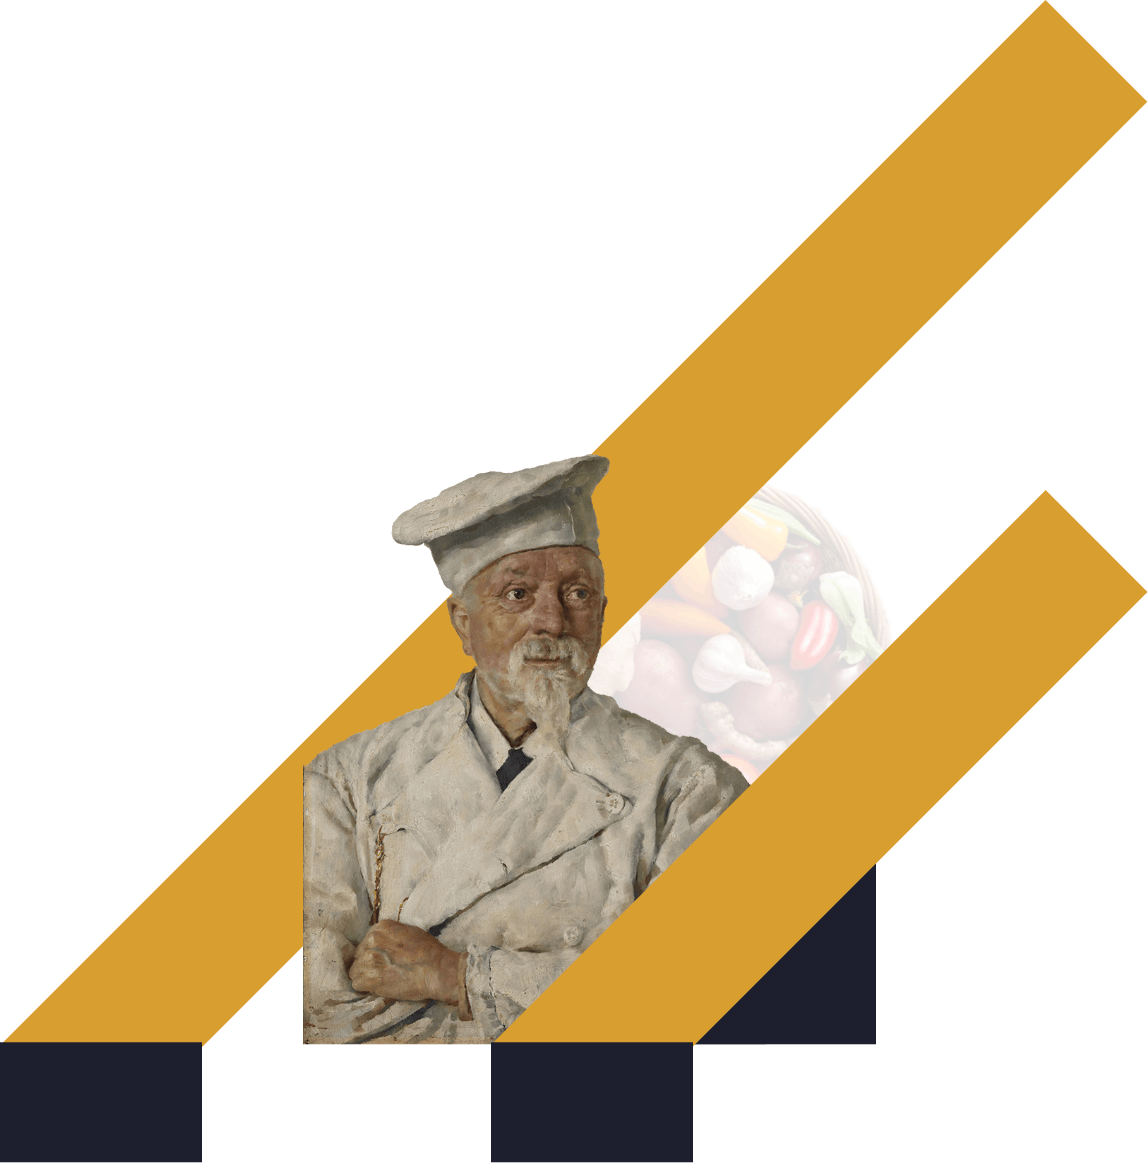
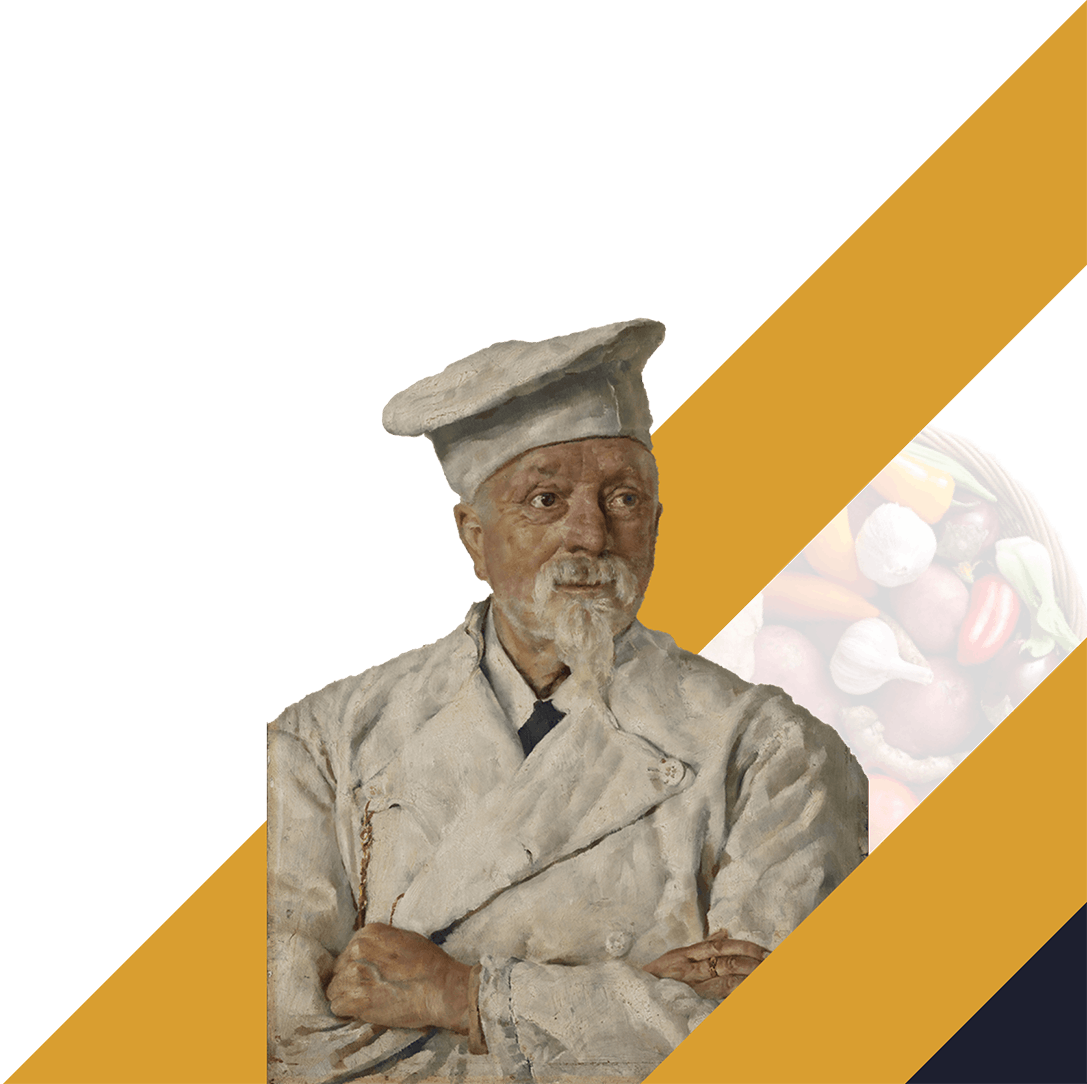
Changed desktop Hero image, added social media links, made changes to sizing and positiong within the same container.

diff --git a/src/containers/wide/Hero/Hero.module.scss b/src/containers/wide/Hero/Hero.module.scss
@@ -54,15 +54,12 @@
     font-size: 2.5rem;
     margin: 0 3rem;
     cursor: pointer;
+    transition: all .3s ease;
+    &:hover {
+        color: white;
+    }
 }
 
-.authButton {
-    color: #D99E30;
-}
-
-.authButtonDecoration {
-    height: 2rem;
-}
 
 .authButtonContainer {
     display: flex;
@@ -73,6 +70,14 @@
     bottom: 1rem;
 }
 
+.authButtonDecoration {
+    height: 2rem;
+}
+
+.authButton {
+    color: #D99E30;
+}
+
 .contentButton {
     color: #D4D8FF;
 }
@@ -81,7 +86,7 @@
 .right {
     width: 50vw;
     position: absolute;
-    right: 0;
+    right: -17px;
     height: 100%;
 }
 
@@ -94,14 +99,14 @@
     position: absolute;
     right: 0;
     bottom: 0;
-    width: 150%;
+    width: 100%;
     height: 100%;
 }
 
 .mascot {
     position: absolute;
-    bottom: -15.5%;
-    right: -21%;
+    bottom: 0;
+    right: 0;
     width: 100%;
 }
 
@@ -139,12 +144,26 @@
 .socialContainer {
     position: absolute;
     bottom: 0;
-    right: 52.5%;
-    height: 35%;
+    right: 75%;
+    height: 32.5%;
+    padding-right: 4rem;
+    display: flex;
+    width: fit-content;
+    // flex-direction: column;
+    // justify-content: space-around;
+    // align-items: center;
+
+}
+
+.socialIconsContainer {
+    display: flex;
+    flex-direction: column;
+    justify-content: space-around;
+    align-items: center;
     &::before {
         content: '';
         display: block;
-        width: 1.5rem;
+        width: 1.2rem;
         height: 101%;
         background-color: white;
         position: absolute;
@@ -152,4 +171,28 @@
         border-radius: 20px 0 0 0;
         right: 0;
     }
+
+    & > * {
+        font-size: 3.5rem;
+        color: white;
+        cursor: pointer;
+        transition: all .2s ease;
+        &:hover {
+            color: #76C8FF;
+        }
+    }
+}
+
+.socialTitle {
+    align-self: center;
+    font-family: 'Caveat';
+    font-size: 3.5rem;
+    transform: rotateZ(-90deg);
+    white-space: nowrap;
+    height: fit-content;
+    position: relative;
+    bottom: -3rem;
+    right: -2rem;
+    font-weight: 300;
+    color: white;
 }

diff --git a/src/containers/wide/Hero/Hero.js b/src/containers/wide/Hero/Hero.js
@@ -8,6 +8,15 @@ import heroStyling from './Hero.module.scss';
 import wideChef from '../../../images/wideChef-min.png';
 import crown from '../../../images/crown-min.png';
 
+// Fonts
+
+ import { FontAwesomeIcon } from '@fortawesome/react-fontawesome';
+ import { 
+     faInstagramSquare,
+     faFacebookSquare,
+     faTwitterSquare
+  } from '@fortawesome/free-brands-svg-icons';
+
 const Hero = () => {
     return (
         <section className={heroStyling.container}>
@@ -26,7 +35,18 @@ const Hero = () => {
                 <div className={heroStyling.mascotContainer}>
                     <img src={wideChef} className={heroStyling.mascot} alt="Mascot of El Chef" />
                     <div className={heroStyling.socialContainer}>
-                        hello
+                        <div className={heroStyling.socialTitle}>Find us on</div>
+                        <div className={heroStyling.socialIconsContainer}>
+                            <a href="https://www.instagram.com">
+                                <FontAwesomeIcon icon={faInstagramSquare} />
+                            </a>
+                            <a href="https://www.facebook.com">
+                                <FontAwesomeIcon icon={faFacebookSquare} />
+                            </a>
+                            <a href="https://www.twitter.com">
+                                <FontAwesomeIcon icon={faTwitterSquare} />
+                            </a>
+                        </div>
                     </div>
                 </div>
 

diff --git a/src/index.css b/src/index.css
@@ -9,6 +9,7 @@ html {
 
 body {
   margin: 0;
+  width: 100vw;
   font-family: -apple-system, BlinkMacSystemFont, 'Segoe UI', 'Roboto', 'Oxygen',
     'Ubuntu', 'Cantarell', 'Fira Sans', 'Droid Sans', 'Helvetica Neue',
     sans-serif;
